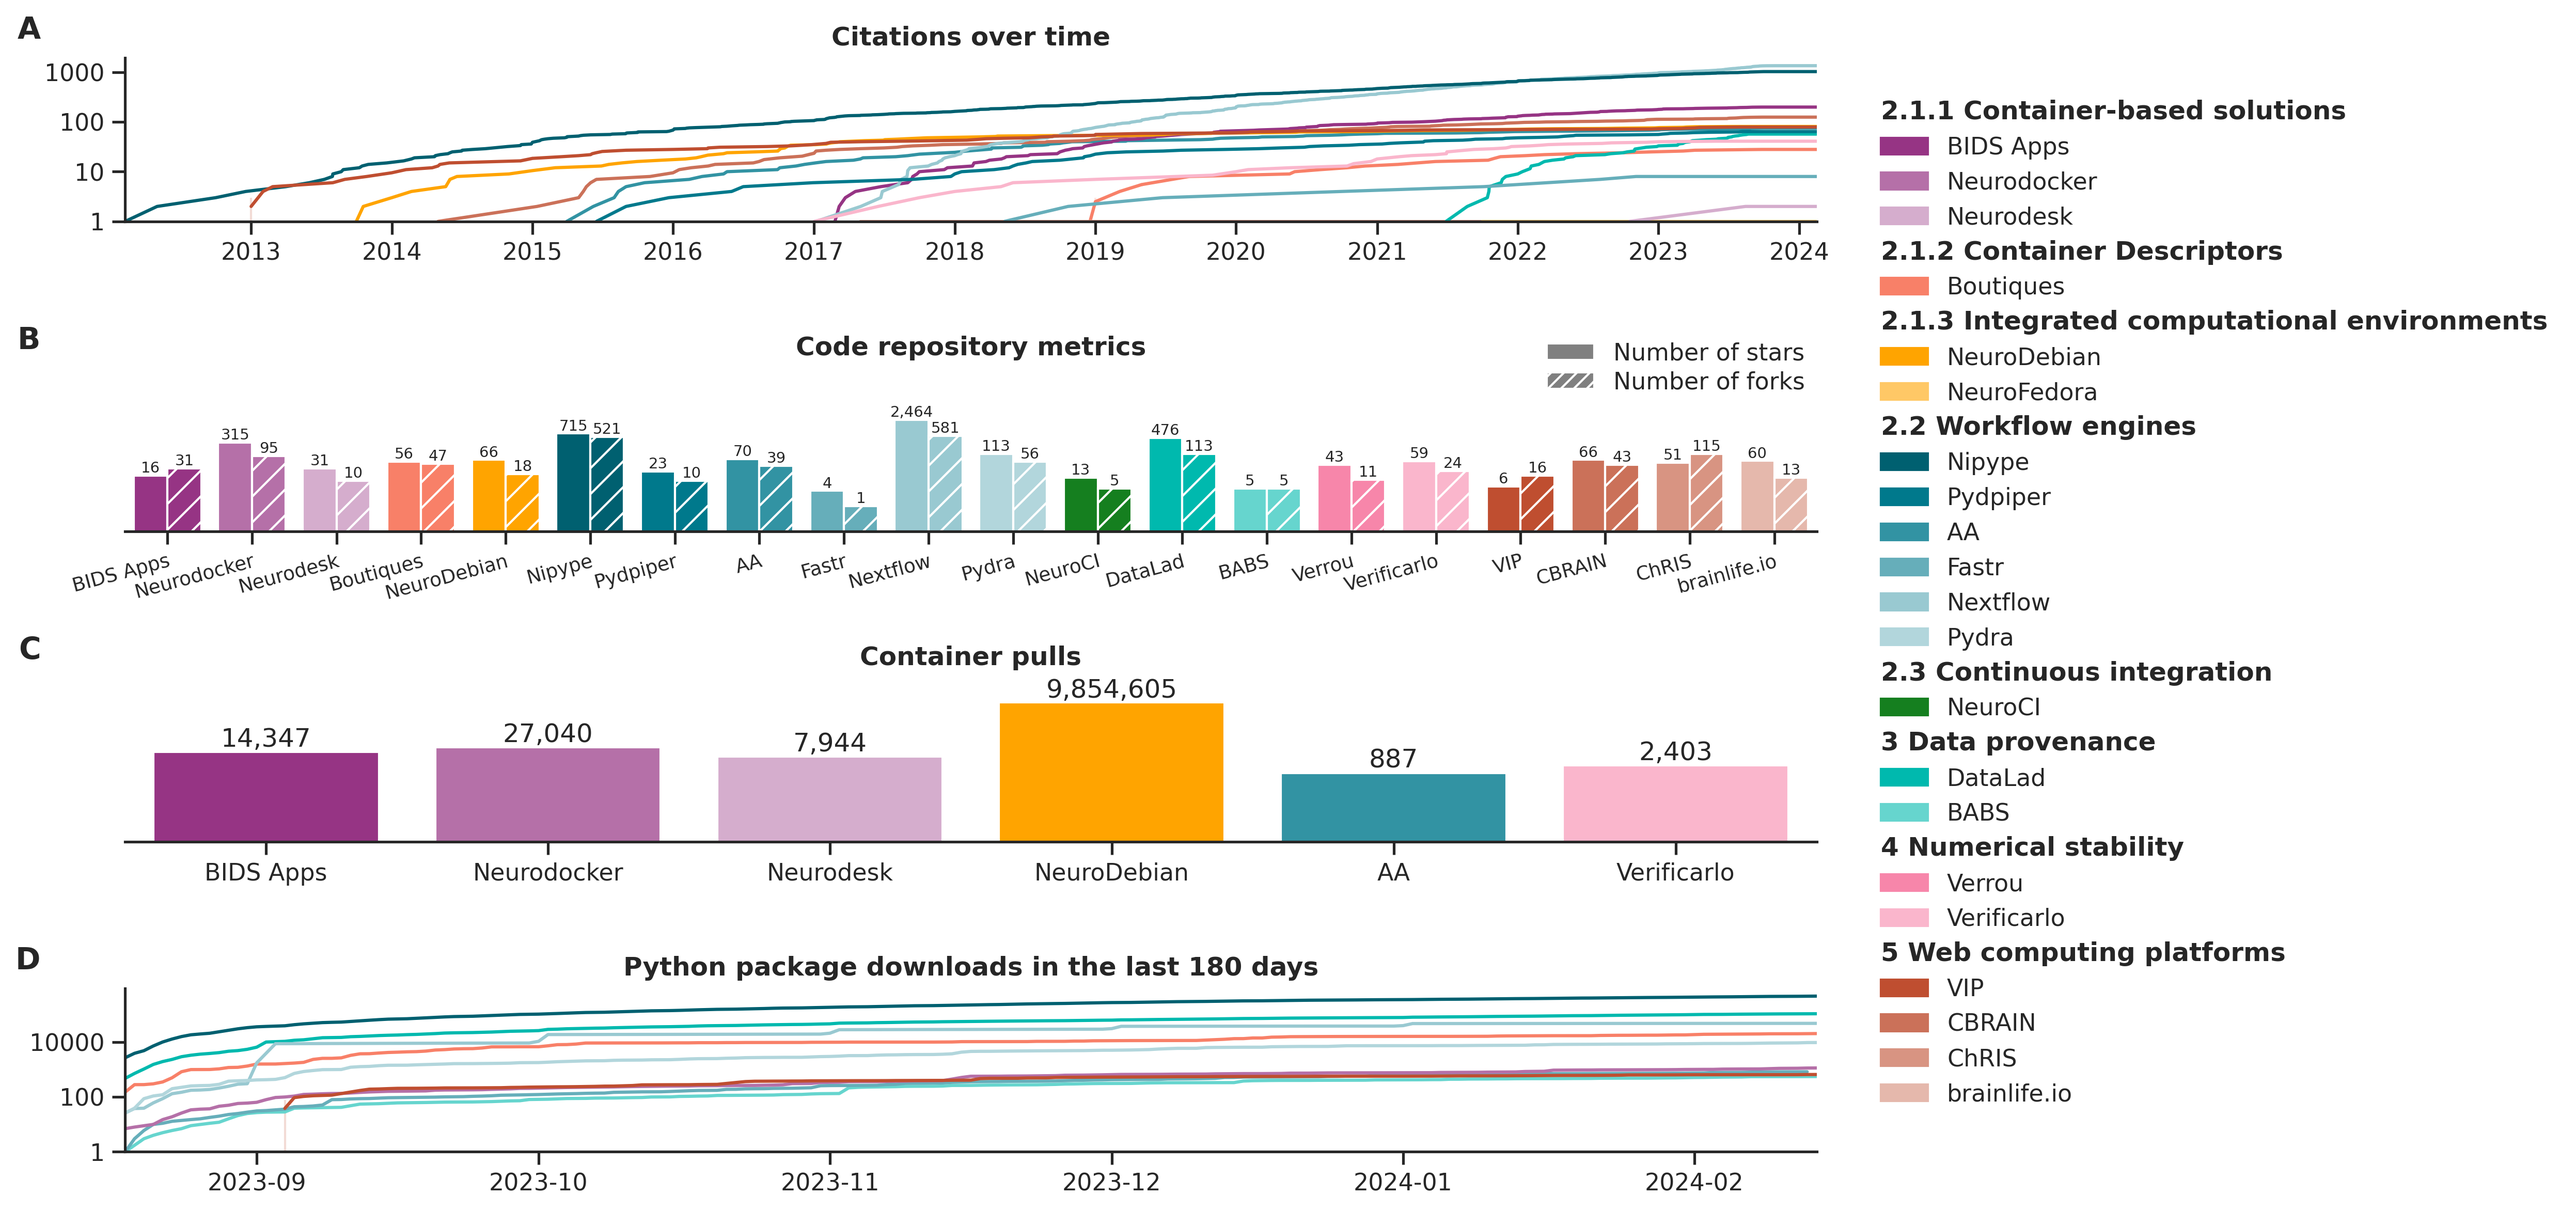
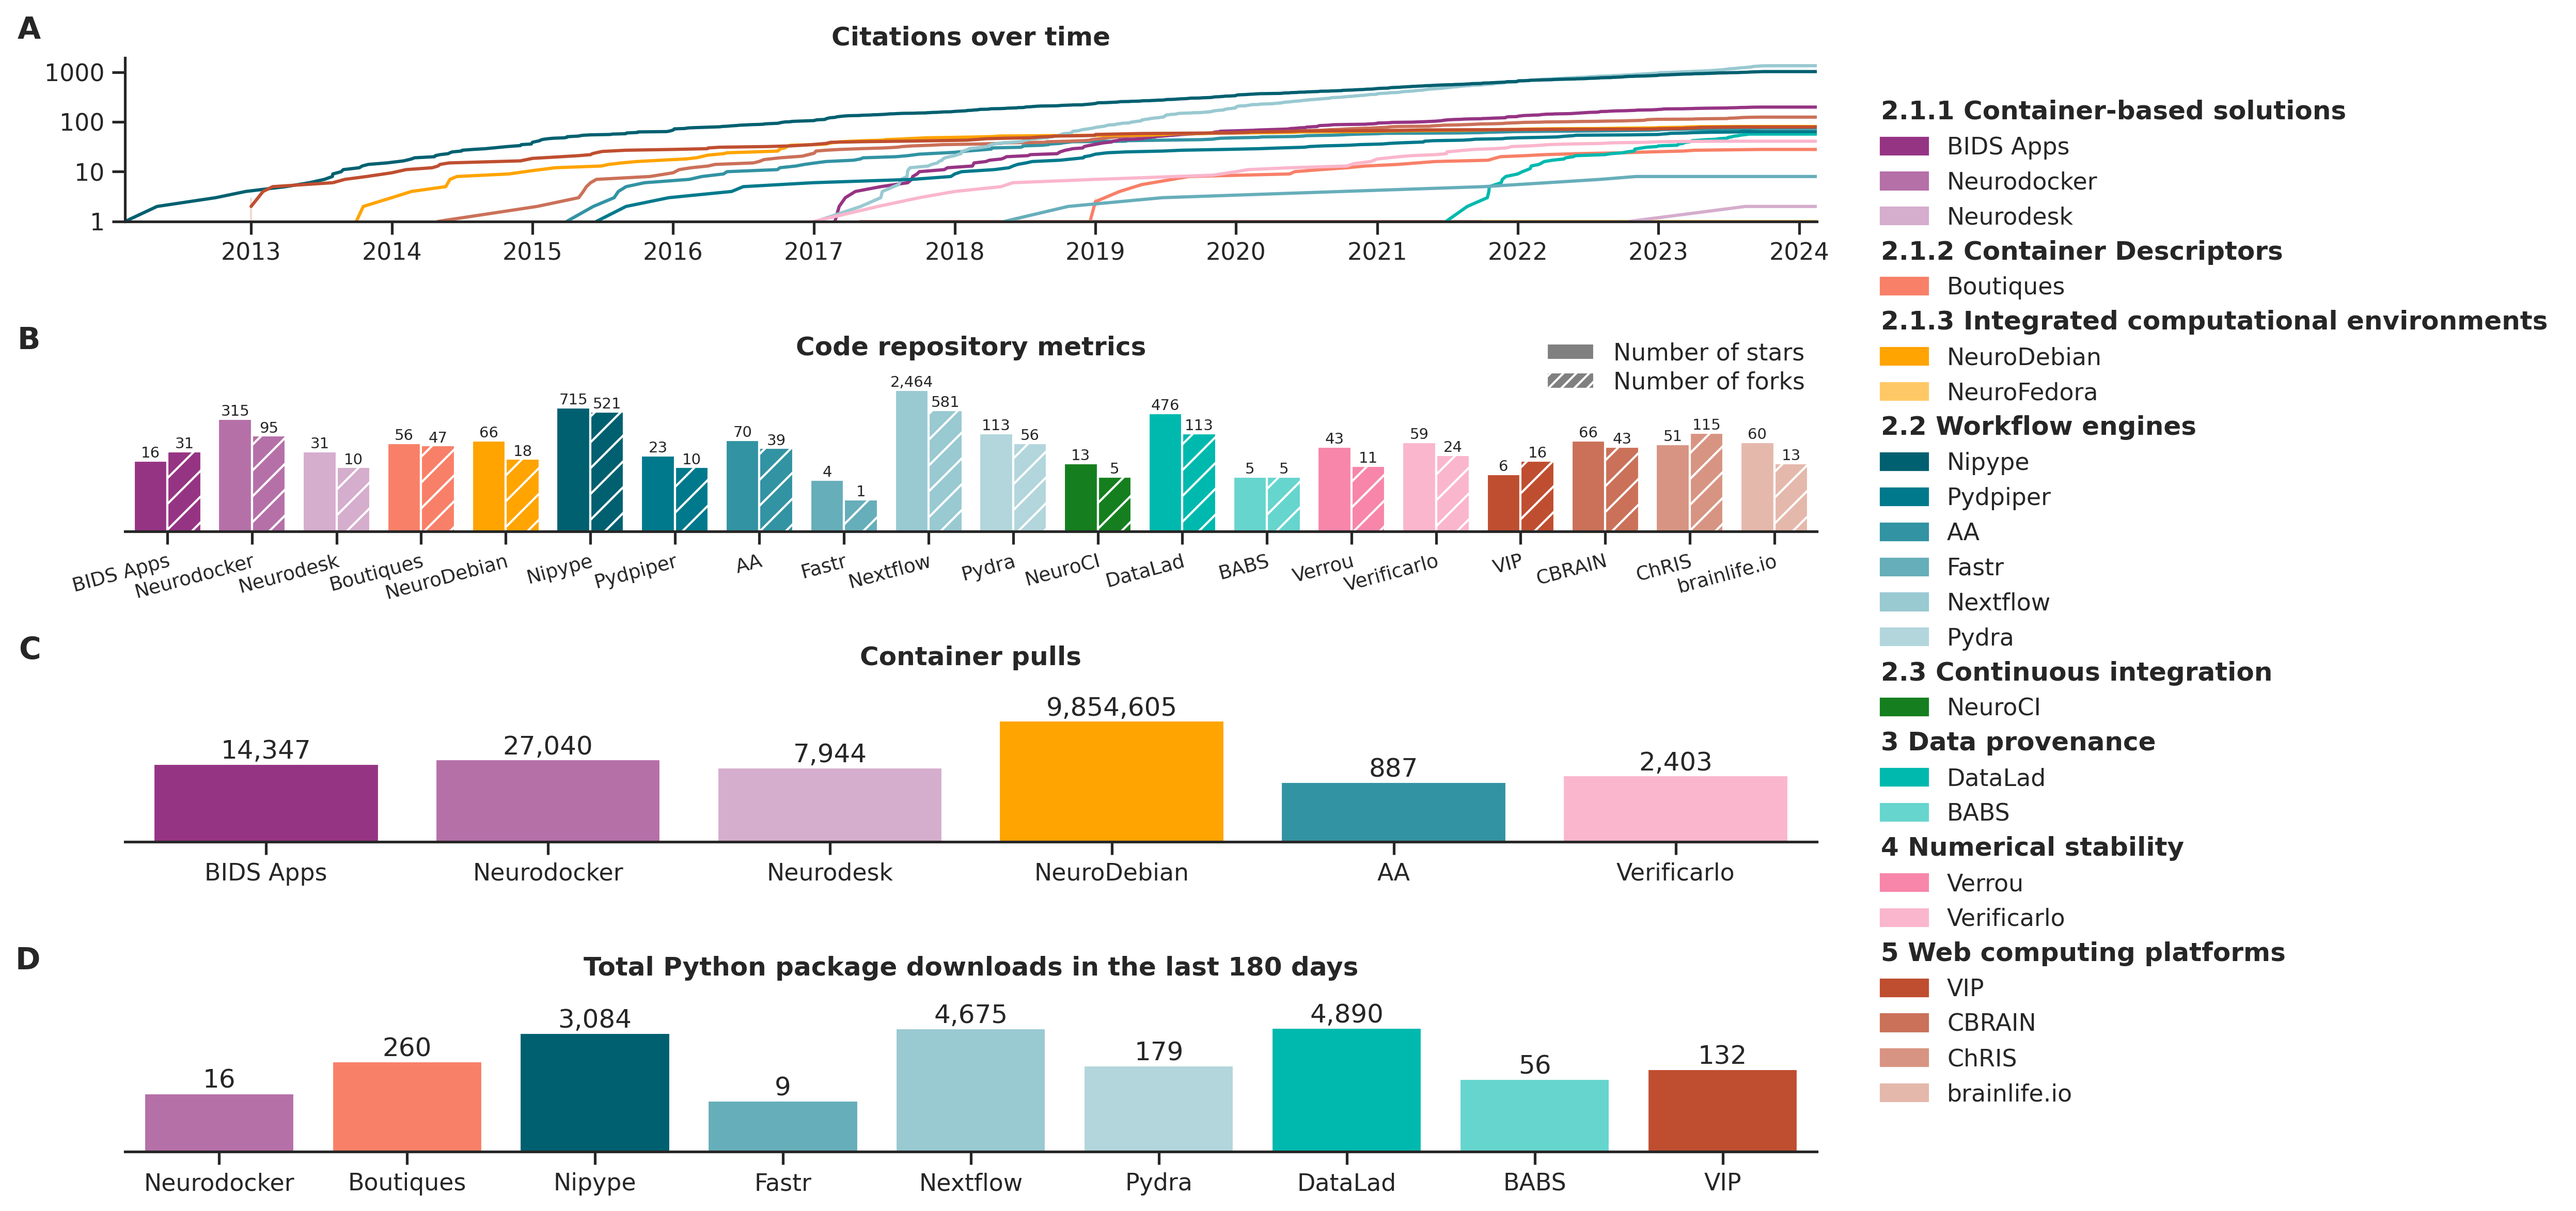
plot python downloads as bar plots instead of timeseries

diff --git a/code/generate_figures.py b/code/generate_figures.py
@@ -134,7 +134,7 @@ def plot_repo(df_metrics: pd.DataFrame, ax=None, hatches=None, palette=None) -> 
         hue=col_metric,
         ax=ax,
         log_scale=True,
-        y_max_factor=1.6,
+        y_max_factor=1.2,
         label_fontsize=7 if n_tools > 10 else None,
     )
 
@@ -179,6 +179,7 @@ def plot_containers_pulls(df_metrics: pd.DataFrame, ax=None, palette=None) -> pl
         hue=COL_NAME,
         palette=palette,
         log_scale=True,
+        y_max_factor=1.4,
     )
     ax.set_title('Container pulls')
     return ax
@@ -265,8 +266,10 @@ def plot_python_total(df_metrics: pd.DataFrame, ax=None, palette=None) -> plt.Ax
         ax=ax,
         hue=COL_NAME,
         palette=palette,
+        log_scale=True,
+        y_max_factor=1.4,
     )
-    ax.set_title('Total Python package downloads')
+    ax.set_title('Total Python package downloads in the last 180 days')
     return ax
 
 def process_palette(df_metrics: pd.DataFrame, palette=None) -> Mapping[str, str]:
@@ -400,7 +403,7 @@ def generate_figures(
         if with_container_pulls:
             subplot_mosaic.append([label_containers])
         if with_python_downloads_total:
-            subplot_mosaic.append([label_python_timeseries])
+            subplot_mosaic.append([label_python_total])
         
         if len(subplot_mosaic) == 0:
             warnings.warn(f'No plot data for section {section}, skipping')
